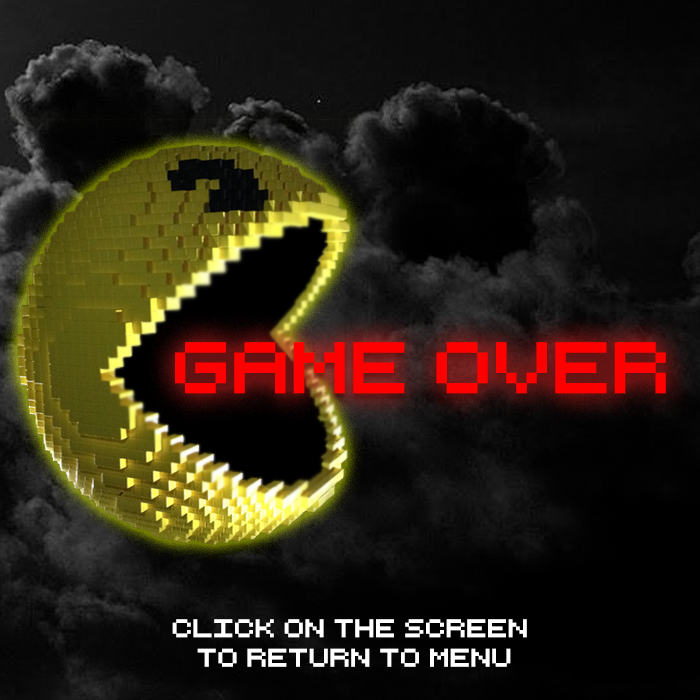
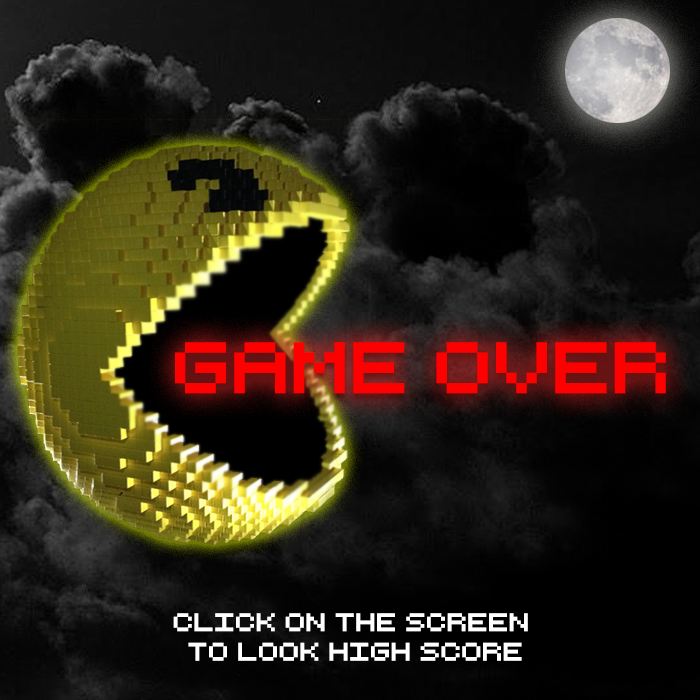
des trucs

Changed region(s): [[0.24, 0.87, 0.75, 0.96], [0.78, 0.0, 0.99, 0.21]]

diff --git a/src/Graphics/Window.java b/src/Graphics/Window.java
@@ -13,6 +13,7 @@ import javafx.animation.TranslateTransition;
 import javafx.application.Application;
 import javafx.beans.value.ChangeListener;
 import javafx.beans.value.ObservableValue;
+import javafx.geometry.Insets;
 import javafx.geometry.Pos;
 import javafx.scene.Group;
 import javafx.scene.Scene;
@@ -150,6 +151,13 @@ public class Window extends Application {
         ImageView ivOption = new ImageView(options);
         ivDemo.preserveRatioProperty();
 
+        Image trophy = new Image("img/trophy.png",300,300,false,false);
+        ImageView ivTrophy = new ImageView(trophy);
+        ivTrophy.preserveRatioProperty();
+
+        ivTrophy.setX(-100);
+        ivTrophy.setY(550);
+
         Group root = new Group();
 
         VBox vbox=new VBox();
@@ -163,7 +171,7 @@ public class Window extends Application {
         bg.drawImage(image, 0, 0, SCENE_WIDTH,SCENE_HEIGHT*margin);
 
         root.getChildren().add(c);
-        root.getChildren().add(vbox);
+        root.getChildren().addAll(ivTrophy, vbox);
 
         ivJouer.addEventHandler(MouseEvent.MOUSE_CLICKED, event -> select(stage));
 
@@ -178,7 +186,7 @@ public class Window extends Application {
 
         ivOption.addEventHandler(MouseEvent.MOUSE_CLICKED, event -> settings(stage));
 
-
+        ivTrophy.addEventHandler(MouseEvent.MOUSE_CLICKED, event -> afficheScore(stage));
 
         stage.setScene(new Scene(root,SCENE_WIDTH,SCENE_HEIGHT*margin));
     }
@@ -243,8 +251,7 @@ public class Window extends Application {
                 public void handle(long currentNanoTime) {
                     ltnow = LocalTime.now();
 
-                    timer = String.format("%02d:%02d:%02d",
-                            ChronoUnit.HOURS.between(ltDebut,ltnow),
+                    timer = String.format("%02d:%02d",
                             ChronoUnit.MINUTES.between(ltDebut,ltnow)%60,
                             ChronoUnit.SECONDS.between(ltDebut,ltnow)%60);
 
@@ -312,8 +319,7 @@ public class Window extends Application {
                     if(mdj==0 || mdj==2)
                         gc.fillText("Timer : " + timer, (1.0 * SCENE_WIDTH / 2) * .9, SCENE_HEIGHT * 1.05);
                     else
-                        gc.fillText("Timer : " + String.format("%02d:%02d:%02d",
-                                Math.abs(ChronoUnit.HOURS.between(ltDebut,ltnow)),
+                        gc.fillText("Timer : " + String.format("%02d:%02d",
                                 Math.abs(ChronoUnit.MINUTES.between(ltDebut,ltnow)%60),
                                 Math.abs(ChronoUnit.SECONDS.between(ltDebut,ltnow)%60)),
                                 (1.0 * SCENE_WIDTH / 2) * .9, SCENE_HEIGHT * 1.05);
@@ -513,8 +519,9 @@ public class Window extends Application {
         double width = 1.0*SCENE_WIDTH/4;
         double height = 1.0*SCENE_HEIGHT/4;
 
-        HBox popVbox=new HBox();
-        popVbox.setSpacing(30.);
+        VBox popVbox=new VBox();
+        popVbox.setSpacing(10.);
+        popVbox.setPadding(new Insets(0,0,0, SCENE_WIDTH/3));
         popVbox.setAlignment(Pos.TOP_CENTER);
 
         Group pop = new Group();
@@ -528,7 +535,6 @@ public class Window extends Application {
         Image iback = new Image("img/back.png", width/2, height/2, false, false);
         ImageView ivback = new ImageView(iback);
         ivback.addEventHandler(MouseEvent.MOUSE_CLICKED, reset -> menu(stage));
-        popVbox.getChildren().add(ivback);
 
         Image ilvl1 = new Image("img/0002_Level-1.png", width, height, false, false);
         ImageView ivlvl1 = new ImageView(ilvl1);
@@ -570,7 +576,7 @@ public class Window extends Application {
             jeu(stage);
         });
 
-        pop.getChildren().add(popVbox);
+        pop.getChildren().addAll(popVbox, ivback);
         Scene popUp = new Scene(pop,SCENE_WIDTH,SCENE_HEIGHT*margin);
         stage.setScene(popUp);
         stage.show();
@@ -580,8 +586,9 @@ public class Window extends Application {
         double width = 1.0*SCENE_WIDTH/4;
         double height = 1.0*SCENE_HEIGHT/4;
 
-        HBox popVbox=new HBox();
+        VBox popVbox=new VBox();
         popVbox.setSpacing(30.);
+        popVbox.setPadding(new Insets(0,0,0,SCENE_WIDTH/3));
         popVbox.setAlignment(Pos.TOP_CENTER);
 
         Group pop = new Group();
@@ -595,7 +602,6 @@ public class Window extends Application {
         Image iback = new Image("img/back.png", width/2, height/2, false, false);
         ImageView ivback = new ImageView(iback);
         ivback.addEventHandler(MouseEvent.MOUSE_CLICKED, reset -> menu(stage));
-        popVbox.getChildren().add(ivback);
 
         Image imdj1 = new Image("img/Classique.png", width, height, false, false);
         ImageView ivmdj1 = new ImageView(imdj1);
@@ -628,7 +634,7 @@ public class Window extends Application {
         });
 
 
-        pop.getChildren().add(popVbox);
+        pop.getChildren().addAll(popVbox, ivback);
         Scene popUp = new Scene(pop,SCENE_WIDTH,SCENE_HEIGHT*margin);
         stage.setScene(popUp);
         stage.show();
@@ -638,45 +644,78 @@ public class Window extends Application {
         Label tmp0;
         Label tmp1;
         Label tmp2;
+        Label sepa;
 
         VBox vbox = new VBox();
 
         Group group = new Group();
 
+        int c = 5;
+
         for (String[] s : Score.readScoreFromFile()){
+
+            if (c <= 0)
+                break;
+            c--;
+
             tmp0 = new Label(s[0]);
-            tmp1 = new Label(s[1]);
-            tmp2 = new Label(s[2]);
+            tmp0.setStyle("-fx-text-fill:WHITE; -fx-font-size:30px;");
+            tmp0.setAlignment(Pos.TOP_CENTER);
+            tmp1 = new Label("Score : "+ s[1]);
+            tmp1.setStyle("-fx-text-fill:WHITE; -fx-font-size:15px;");
+            tmp2 = new Label("Temps : "+s[2]);
+            tmp2.setStyle("-fx-text-fill:WHITE; -fx-font-size:15px;");
+            sepa = new Label("##########");
+            sepa.setStyle("-fx-text-fill:WHITE; -fx-font-size:20px;");
 
-            vbox.getChildren().addAll(tmp0, tmp1, tmp2);
+            vbox.getChildren().addAll(tmp0, tmp1, tmp2, sepa);
         }
-        Image submit = new Image("img/Ok.png", 100, 100, false, false);
+
+        vbox.setPadding(new Insets(160, 0,0,150));
+
+        Image submit = new Image("img/Ok.png", 300, 300, false, false);
         ImageView ivSubmit = new ImageView(submit);
+        ivSubmit.setY(SCENE_HEIGHT*margin-100);
+        ivSubmit.setX(-100);
 
-        vbox.getChildren().add(ivSubmit);
+        Image bg = new Image("img/bgBlack.png", 500, SCENE_HEIGHT * margin + 200, false, false);
+        ImageView ivBg = new ImageView(bg);
 
-        group.getChildren().addAll(vbox);
+        Image label = new Image("img/high_score.png", 400, 100, false, false);
+        ImageView ivLabel = new ImageView(label);
+        ivLabel.setX(20.);
+
+        group.getChildren().addAll(ivBg, ivLabel , ivSubmit,vbox);
 
         ivSubmit.addEventHandler(MouseEvent.MOUSE_CLICKED, reset -> {
             menu(stage);
         });
 
-        Scene score = new Scene(group,SCENE_WIDTH,SCENE_HEIGHT*margin);
+        Scene score = new Scene(group,450,SCENE_HEIGHT*margin+100);
         stage.setScene(score);
         stage.show();
     }
 
     public void ecrireScore(Score score, Stage stage, String timer){
-        Label label = new Label("Name :");
+        Label label = new Label("Entrer votre nom :");
+        label.setStyle("-fx-text-fill:WHITE;");
+
         final TextField inputName = new TextField();
 
-        Image submit = new Image("img/Ok.png", 100, 100, false, false);
+        Image submit = new Image("img/Ok.png", 250, 250, false, false);
         ImageView ivSubmit = new ImageView(submit);
 
-        Group group = new Group();
-        group.getChildren().addAll(label, inputName, ivSubmit);
+        Image bg = new Image("img/bgBlack.png", SCENE_WIDTH, SCENE_HEIGHT * margin, false, false);
+        ImageView ivBg = new ImageView(bg);
 
-        Scene scene = new Scene(group, SCENE_WIDTH, SCENE_HEIGHT * margin);
+        VBox vbox = new VBox();
+        vbox.setPadding(new Insets(15, 12, 15, 12));
+        vbox.getChildren().addAll(label, inputName, ivSubmit);
+
+        Group group = new Group();
+        group.getChildren().addAll(ivBg,vbox);
+
+        Scene scene = new Scene(group, 300, 300);
         stage.setScene(scene);
 
 
